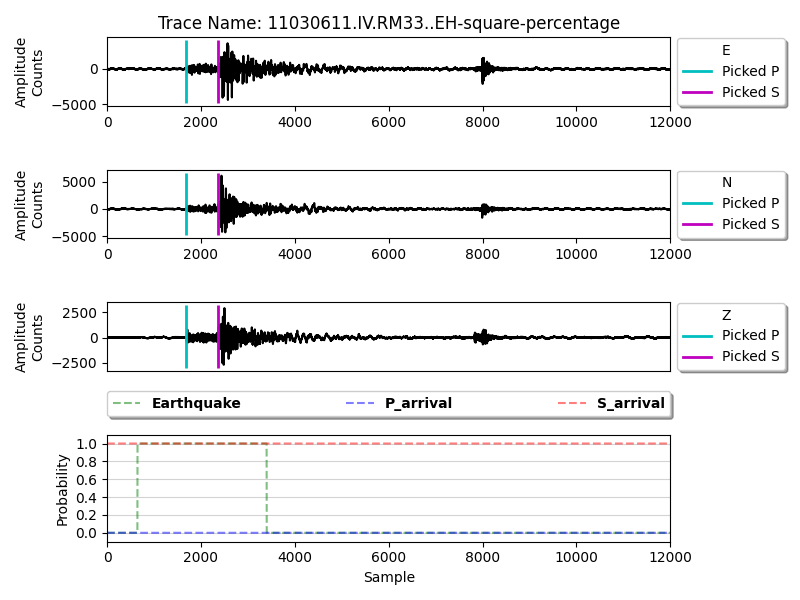
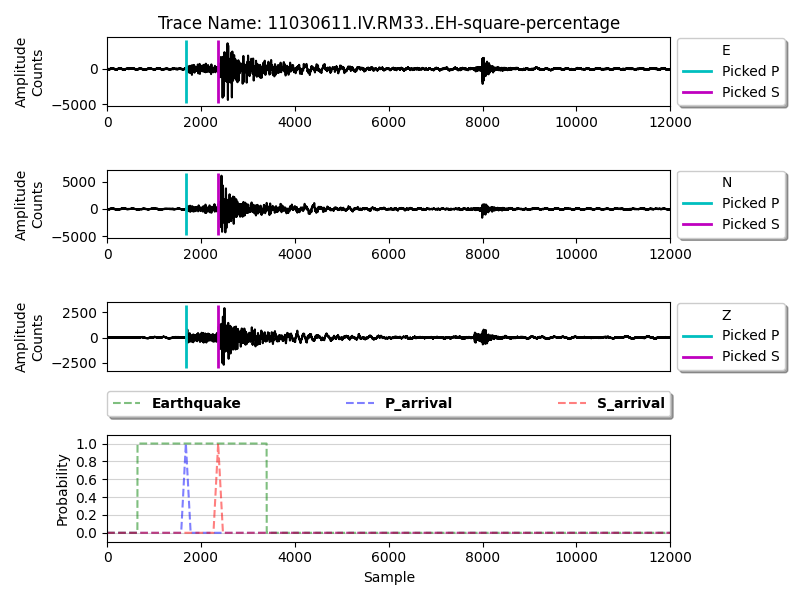
Added p phase and s phase targets

Changed region(s): [[0.1562, 0.72, 0.8438, 0.9]]

diff --git a/utils/dataloaders/InstanceDataset.py b/utils/dataloaders/InstanceDataset.py
@@ -5,7 +5,7 @@ import torch
 from torch.utils.data import Dataset
 
 class InstanceDataset(Dataset):
-    def __init__(self, event_hdf5_file, event_metadata_file, noise_hdf5_file, noise_metadata_file, target_type="box_square", padding_type="sample", padding_value=280, transform=None):
+    def __init__(self, event_hdf5_file, event_metadata_file, noise_hdf5_file, noise_metadata_file, target_type="box_square", padding_type="sample", padding_value=280, target_phase=True, phase_padding=20, transform=None):
         self.event_hdf5_file = event_hdf5_file
         self.noise_hdf5_file = noise_hdf5_file
         self.noise_metadata = pd.read_csv(noise_metadata_file)
@@ -14,6 +14,8 @@ class InstanceDataset(Dataset):
         self.target_type = target_type
         self.padding_type = padding_type
         self.padding_value = padding_value
+        self.target_phase = target_phase
+        self.phase_padding = phase_padding
 
 
     def __len__(self):
@@ -30,7 +32,7 @@ class InstanceDataset(Dataset):
             filename = self.event_hdf5_file
             with h5py.File(filename, 'r') as f:
                 input = torch.tensor(f['data'][trace_name][:])
-            target = self.get_event_target(input, idx, self.event_metadata, self.target_type, self.padding_type, self.padding_value)
+            target, p_target, s_target = self.get_event_target(input, idx, self.event_metadata, self.target_type, self.padding_type, self.padding_value, self.target_phase, self.phase_padding)
         else:
             #Access noise
             index = idx % eventsCount
@@ -38,14 +40,17 @@ class InstanceDataset(Dataset):
             filename = self.noise_hdf5_file
             with h5py.File(filename, 'r') as f:
                 input = torch.tensor(f['data'][trace_name][:])
-            target = self.get_noise_target(input, self.target_type)
+            target, p_target, s_target = self.get_noise_target(input, self.target_type, self.target_phase)
 
-        return input, target
+        return input, target, p_target, s_target
 
 
-    def get_event_target(self, input, index, event_metadata, target_type, padding_type, padding_value):
+    def get_event_target(self, input, index, event_metadata, target_type, padding_type, padding_value, target_phase, phase_padding):
+        s_target = None
+        p_target = None
+        
         if target_type == "binary":
-            return 1
+            target = 1
         else:
             sample_size = input.shape[1]
             p_sample = event_metadata['trace_P_arrival_sample'][index]
@@ -69,7 +74,9 @@ class InstanceDataset(Dataset):
             elif target_type == "box_trapezoidal":
                 final_start_index, start_padding, final_end_index, end_padding = self.get_box_trapezoidal(sample_size, raw_start_index, raw_end_index, p_sample, s_sample)
             else:
-                return 1
+                start_padding = None
+                end_padding = None
+                target = 1
             
             if start_padding is not None:
                 target[final_start_index:p_sample] = start_padding
@@ -77,17 +84,41 @@ class InstanceDataset(Dataset):
             if end_padding is not None:
                 target[s_sample+1:final_end_index+1] = end_padding
 
-            return target
+            if target_phase and ((target_type == "box_square") or (target_type == "box_trapezoidal")):
+                p_target = self.get_phase_target(event_metadata['trace_P_arrival_sample'][index], sample_size, phase_padding) 
+                s_target = self.get_phase_target(event_metadata['trace_S_arrival_sample'][index], sample_size, phase_padding)
             
+        return target, p_target, s_target
+    
 
-    def get_noise_target(self, input, target_type):
-        if target_type == "binary":
-            return 0
-        elif (target_type == "box_square") or (target_type == "box_trapezoidal"):
-            return torch.zeros(input.shape[1])
-        else:
-            return 0 #Not optimized if/else for code clarity
-        
+    def get_phase_target(self, phase_sample, sample_size, phase_padding):
+        target = torch.zeros(sample_size)
+        if not np.isnan(phase_sample):
+            phase_sample = round(phase_sample)
+            start_index = phase_sample - phase_padding
+            padding = np.linspace(0, 1, phase_padding + 1)
+            final_start_index = max(0, start_index)
+            target[final_start_index:phase_sample+1] = torch.from_numpy(padding[final_start_index - start_index:])
+
+            end_index = phase_sample + phase_padding
+            padding = np.flip(np.linspace(0, 1, phase_padding + 1))
+            final_end_index = min(sample_size - 1, end_index)
+            target[phase_sample+1:final_end_index+1] = torch.from_numpy(padding[1:final_end_index - phase_sample + 1].copy())
+        return target
+
+
+    def get_noise_target(self, input, target_type, target_phase):
+        target = 0
+        phase_target = None
+
+        if (target_type == "box_square") or (target_type == "box_trapezoidal"):
+            target = torch.zeros(input.shape[1])
+            if phase_target:
+                phase_target = torch.zeros(input.shape[1])
+    
+        return target, phase_target, phase_target
+
+
 
     def get_box_square_padding(self, sample_size, raw_start_index, raw_end_index, p_sample, s_sample):
         """
